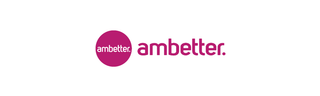
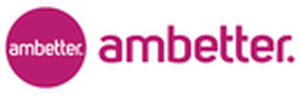
Polish insurance and listing CTAs; drop Private/Self Pay.
Align secondary buttons to the white/red outline treatment, normalize carrier logos and card shadows, and remove Private Pay and Self Pay from catalog, filters, and listings.

diff --git a/src/pages/RehabCenterDetail.css b/src/pages/RehabCenterDetail.css
@@ -190,15 +190,28 @@
   color: #fff;
 }
 
+.rpd-hero-actions .rpd-secondary-btn {
+  background: #fff;
+  border: 1px solid rgba(140, 17, 38, 0.35);
+  color: var(--brand-red, #8c1126);
+}
+
+.rpd-hero-actions .rpd-secondary-btn:hover {
+  background: #f8f0f2;
+  color: var(--brand-red, #8c1126);
+  border-color: rgba(140, 17, 38, 0.5);
+}
+
 .rpd-content .rpd-secondary-btn {
   background: #fff;
-  border: 1px solid var(--rpd-line);
-  color: var(--rpd-ink);
+  border: 1px solid rgba(140, 17, 38, 0.35);
+  color: var(--brand-red, #8c1126);
 }
 
 .rpd-content .rpd-secondary-btn:hover {
-  background: var(--rpd-soft);
-  color: var(--rpd-ink);
+  background: #f8f0f2;
+  color: var(--brand-red, #8c1126);
+  border-color: rgba(140, 17, 38, 0.5);
 }
 
 .rpd-stars {
@@ -832,14 +845,15 @@
 }
 
 .rpd-contact-band .rpd-secondary-btn {
-  background: rgba(255, 255, 255, 0.1);
-  border: 1px solid rgba(255, 255, 255, 0.35);
-  color: #fff;
+  background: #fff;
+  border: 1px solid rgba(140, 17, 38, 0.35);
+  color: var(--brand-red, #8c1126);
 }
 
 .rpd-contact-band .rpd-secondary-btn:hover {
-  background: rgba(255, 255, 255, 0.18);
-  color: #fff;
+  background: #f8f0f2;
+  color: var(--brand-red, #8c1126);
+  border-color: rgba(140, 17, 38, 0.5);
 }
 
 .rpd-mobile-bar {

diff --git a/src/pages/RehabCenterDetail.jsx b/src/pages/RehabCenterDetail.jsx
@@ -109,7 +109,8 @@ function ChipList({ items }) {
 }
 
 function InsuranceList({ details, names }) {
-  const items = (details?.length ? details : (names || []).map(name => ({ name, logo_url: null })))
+  const raw = details?.length ? details : (names || []).map(name => ({ name, logo_url: null }))
+  const items = raw.filter(item => !/^(private|self)[\s-]?pay$/i.test(item?.name || ''))
   if (!items.length) return null
   return (
     <ul className="rpd-insurance-logos">
@@ -376,7 +377,7 @@ export default function RehabCenterDetail() {
           </section>
 
           <section id="insurance" className="rpd-section">
-            <h2>Insurance & payment</h2>
+            <h2>Insurance providers</h2>
             <InsuranceList details={center.insurance_details} names={center.insurances} />
             {!center.insurances?.length && !center.insurance_details?.length && (
               <p className="rpd-muted">Ask the center about accepted plans using the inquiry form.</p>

diff --git a/src/pages/InsuranceCoverage.css b/src/pages/InsuranceCoverage.css
@@ -54,13 +54,15 @@
 }
 
 .icov-hero .btn-outline {
-  background: transparent;
-  color: #fff;
-  border: 1px solid rgba(255, 255, 255, 0.45);
+  background: #fff;
+  color: var(--icov-accent);
+  border: 1px solid rgba(140, 17, 38, 0.35);
 }
 
 .icov-hero .btn-outline:hover {
-  background: rgba(255, 255, 255, 0.08);
+  background: #f8f0f2;
+  color: var(--icov-accent);
+  border-color: rgba(140, 17, 38, 0.5);
 }
 
 .icov-hero .icov-breadcrumb {
@@ -154,6 +156,7 @@
   border: 1px solid var(--icov-line);
   border-radius: 10px;
   background: #fff;
+  box-shadow: 0 8px 28px rgba(26, 26, 46, 0.07);
   text-decoration: none;
   color: inherit;
   transition: border-color 0.3s, box-shadow 0.3s, transform 0.3s;
@@ -187,10 +190,12 @@
 }
 
 .icov-carrier-card img {
-  height: 40px;
-  width: auto;
-  max-width: 140px;
+  display: block;
+  width: 180px;
+  height: 56px;
+  max-width: 100%;
   object-fit: contain;
+  object-position: left center;
   align-self: flex-start;
 }
 

diff --git a/src/pages/InsuranceCoverageHub.jsx b/src/pages/InsuranceCoverageHub.jsx
@@ -57,7 +57,7 @@ export default function InsuranceCoverageHub() {
               <li key={c.slug}>
                 <Link to={`/insurance/${c.slug}`} className="icov-carrier-card">
                   {c.logo_url && (
-                    <img src={c.logo_url} alt="" width={140} height={42} loading="lazy" />
+                    <img src={c.logo_url} alt="" width={180} height={56} loading="lazy" />
                   )}
                   <strong>{`Does ${c.name} cover drug and alcohol rehab?`}</strong>
                   <span>

diff --git a/src/pages/Blog.css b/src/pages/Blog.css
@@ -342,7 +342,16 @@
 }
 
 .blog-load-more-btn {
-  transition: opacity 0.3s ease, transform 0.3s ease;
+  background: #fff;
+  border-color: rgba(140, 17, 38, 0.35);
+  color: var(--brand-red);
+  transition: opacity 0.3s ease, transform 0.3s ease, background-color 0.3s ease, border-color 0.3s ease;
+}
+
+.blog-load-more-btn:hover {
+  background: #f8f0f2;
+  border-color: rgba(140, 17, 38, 0.5);
+  color: var(--brand-red);
 }
 
 .blog-load-more-btn.is-loading {

diff --git a/src/components/RehabSearch.jsx b/src/components/RehabSearch.jsx
@@ -193,7 +193,6 @@ export default function RehabSearch({
                           { name: 'Tricare' },
                           { name: 'Medicaid' },
                           { name: 'Medicare' },
-                          { name: 'Private Pay' },
                         ]
                     ).map(opt => (
                       <option key={opt.slug || opt.name} value={opt.name}>{opt.name}</option>

diff --git a/src/lib/rehabServices.js b/src/lib/rehabServices.js
@@ -36,7 +36,6 @@ export const REHAB_INSURANCE_TYPES = [
   { id: 'medicare', label: 'Medicare' },
   { id: 'tricare', label: 'TRICARE' },
   { id: 'va', label: 'VA Benefits' },
-  { id: 'self-pay', label: 'Self-Pay / No Insurance' },
 ]
 
 /** Build a directory URL using the shared query-param filter mechanism. */

diff --git a/src/components/GuidedFinder.jsx b/src/components/GuidedFinder.jsx
@@ -24,7 +24,6 @@ const FALLBACK_CARRIERS = [
   'Tricare',
   'Medicaid',
   'Medicare',
-  'Self Pay',
 ]
 
 export default function GuidedFinder({ variant = 'full' }) {

diff --git a/backend/app/bootstrap.py b/backend/app/bootstrap.py
@@ -41,8 +41,6 @@ USA_INSURANCE_SEED = [
     ("Oscar Health", "oscar", "/images/insurance/oscar.png", 170),
     ("WellCare", "wellcare", "/images/insurance/wellcare.png", 180),
     ("Centene", "centene", "/images/insurance/centene.png", 190),
-    ("Private Pay", "private-pay", "/images/insurance/private-pay.png", 200),
-    ("Self Pay", "self-pay", "/images/insurance/self-pay.png", 210),
     ("Other Insurance", "other-insurance", "/images/insurance/other-insurance.png", 220),
 ]
 
@@ -72,7 +70,7 @@ REHAB_SEED = [
         ],
         "specialties": ["Inpatient Residential", "Medical Detox", "Dual Diagnosis", "Telehealth"],
         "levels_of_care": ["Detox", "Residential", "IOP", "Outpatient"],
-        "insurances": ["Aetna", "Blue Cross Blue Shield", "Cigna", "UnitedHealthcare", "Private Pay"],
+        "insurances": ["Aetna", "Blue Cross Blue Shield", "Cigna", "UnitedHealthcare"],
         "amenities": ["Private rooms", "Fitness center", "Family program"],
         "accreditations": ["Joint Commission", "CARF"],
         "testimonials": [
@@ -109,7 +107,7 @@ REHAB_SEED = [
         ],
         "specialties": ["Medical Detox", "Inpatient", "Dual Diagnosis", "Executive Program"],
         "levels_of_care": ["Detox", "Residential", "PHP", "IOP"],
-        "insurances": ["Aetna", "Blue Cross Blue Shield", "Cigna", "UnitedHealthcare", "Tricare", "Private Pay"],
+        "insurances": ["Aetna", "Blue Cross Blue Shield", "Cigna", "UnitedHealthcare", "Tricare"],
         "amenities": ["Executive track", "Medical staff onsite", "Family workshops"],
         "accreditations": ["Joint Commission"],
         "testimonials": [
@@ -326,8 +324,13 @@ def seed_rehab_centers(db: Session) -> None:
         # Keep demo placeholder insurance lists aligned with the USA catalog.
         old_demo = {"most major insurance", "private pay", "blue cross"}
         current = {str(x).lower() for x in (center.insurances or [])}
-        if item.get("insurances") and item.get("claimed") and (not current or current <= old_demo):
+        if item.get("insurances") and item.get("claimed") and (not current or current <= old_demo or "private pay" in current):
             center.insurances = item["insurances"]
+        elif center.insurances:
+            center.insurances = [
+                n for n in center.insurances
+                if str(n).strip().lower() not in {"private pay", "self pay", "self-pay"}
+            ]
         if item.get("claimed"):
             center.claimed = True
             center.contact_visible = True
@@ -412,6 +415,18 @@ def seed_insurance_catalog(db: Session) -> dict[str, int]:
         db.add(InsuranceCatalog(**payload))
         created += 1
     db.commit()
-    total = db.query(InsuranceCatalog).count()
-    logger.info("Insurance catalog seed: created=%s updated=%s total=%s", created, updated, total)
+    # Private Pay / Self Pay were removed from the public catalog — disable legacy rows.
+    retired = (
+        db.query(InsuranceCatalog)
+        .filter(InsuranceCatalog.slug.in_(("private-pay", "self-pay")))
+        .all()
+    )
+    for row in retired:
+        if row.enabled:
+            row.enabled = False
+            updated += 1
+    if retired:
+        db.commit()
+    total = db.query(InsuranceCatalog).filter(InsuranceCatalog.enabled.is_(True)).count()
+    logger.info("Insurance catalog seed: created=%s updated=%s enabled=%s", created, updated, total)
     return {"created": created, "updated": updated, "total": total}

diff --git a/backend/app/api/rehab_helpers.py b/backend/app/api/rehab_helpers.py
@@ -88,21 +88,25 @@ def resolve_insurance_details(db: Session, names: list[str] | None) -> list[Insu
         "united healthcare": "unitedhealthcare",
         "united health": "unitedhealthcare",
         "uhc": "unitedhealthcare",
-        "private pay": "private pay",
-        "self-pay": "self pay",
-        "selfpay": "self pay",
         "most major insurance": None,
+        "private pay": None,
+        "private-pay": None,
+        "self pay": None,
+        "self-pay": None,
+        "selfpay": None,
     }
     details: list[InsuranceDetail] = []
     seen: set[str] = set()
+    skip = {"private pay", "private-pay", "self pay", "self-pay", "selfpay"}
     for raw in names:
         key = _norm(raw)
         if not key or key in seen:
             continue
+        if key in skip:
+            continue
         seen.add(key)
         alias = aliases.get(key, key)
         if alias is None:
-            details.append(InsuranceDetail(name=raw, slug=None, logo_url=None))
             continue
         row = by_name.get(alias) or by_slug.get(alias.replace(" ", "-")) or by_name.get(key) or by_slug.get(key)
         if row:
@@ -125,7 +129,10 @@ def center_to_public(db: Session, center: RehabCenter) -> RehabCenterPublic:
         and center.featured_until
         and center.featured_until > datetime.now(timezone.utc)
     )
-    insurance_names = center.insurances or []
+    insurance_names = [
+        name for name in (center.insurances or [])
+        if str(name).strip().lower() not in {"private pay", "private-pay", "self pay", "self-pay", "selfpay"}
+    ]
     return RehabCenterPublic(
         id=center.id,
         slug=center.slug,

diff --git a/backend/app/services/samhsa_import.py b/backend/app/services/samhsa_import.py
@@ -46,7 +46,7 @@ TEMPLATE_EXAMPLE_ROW = {
     "description": "Basic SAMHSA-seeded listing. Centers claim and expand this profile.",
     "specialties": "Detox|Residential|IOP",
     "levels_of_care": "Detox|Inpatient|Outpatient",
-    "insurances": "Medicaid|Private Pay",
+    "insurances": "Medicaid",
     "amenities": "Private rooms|Fitness",
     "accreditations": "Joint Commission|CARF",
     "google_maps_url": "https://maps.google.com/?q=Phoenix+AZ",
